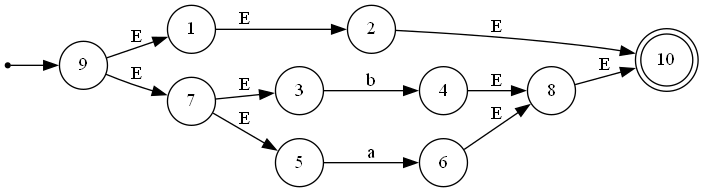
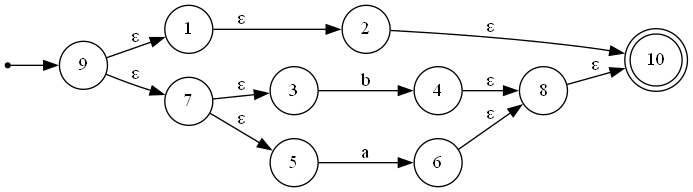
implementacion de ε

diff --git a/AFN.py b/AFN.py
@@ -11,7 +11,6 @@ class AFN(AF):
 
     def __Thompson(self):
         postfix = self.Regex.get_postfix()
-        print(postfix)
         # Stack made of postfix elements
         for element in postfix:
             self.stack.append(element)
@@ -24,7 +23,7 @@ class AFN(AF):
     def __crear_AFN(self):
         if len(self.stack) != 0:
             first = self.stack.pop()
-            if first in self.alfabeto or first == 'E':
+            if first in self.alfabeto or first == 'ε':
                 # Se crea un elemento unitario si solo se encuentra un elemento del alfabeto.
                 return self.__unidad(first)
             if self.__is_binary(first):
@@ -51,11 +50,11 @@ class AFN(AF):
         self.estados.add(initial)
         
         # Se crea la transición al estado inicial del diagrama de transición del argumento.
-        transition = (op1[0], 'E')
+        transition = (op1[0], 'ε')
         self.transiciones[initial] = [(transition)]
 
         # Se crea una transición del estado final del argumento a su estado inicial.
-        transition = (op1[0], 'E')
+        transition = (op1[0], 'ε')
         self.transiciones[op1[1]].append(transition)
         
         # Se crea el estado final del barco.
@@ -65,11 +64,11 @@ class AFN(AF):
         self.transiciones[final] = []
 
         # Se añade una transición del estado inicial al final con epsilon.
-        transition = (final, 'E')
+        transition = (final, 'ε')
         self.transiciones[initial].append(transition)
 
         # Se crea una transición del estado final del argumento al estado final del barco con epsilon.
-        transition = (final, 'E')
+        transition = (final, 'ε')
         self.transiciones[op1[1]].append(transition)
 
         return (initial, final)
@@ -81,11 +80,11 @@ class AFN(AF):
         self.estados.add(initial)
         
         # Se crea la transición al estado inicial del diagrama de transición del argumento.
-        transition = (op1[0], 'E')
+        transition = (op1[0], 'ε')
         self.transiciones[initial] = [(transition)]
 
         # Se crea una transición del estado final del argumento a su estado inicial.
-        transition = (op1[0], 'E')
+        transition = (op1[0], 'ε')
         self.transiciones[op1[1]].append(transition)
         
         # Se crea el estado final del barco.
@@ -95,7 +94,7 @@ class AFN(AF):
         self.transiciones[final] = []
 
         # Se crea una transición del estado final del argumento al estado final del barco con epsilon.
-        transition = (final, 'E')
+        transition = (final, 'ε')
         self.transiciones[op1[1]].append(transition)
 
         return (initial, final)
@@ -108,9 +107,9 @@ class AFN(AF):
 
         # Se crea una transición para cada una de las dos partes de la hamburguesa
         # Estos son los estados iniciales de los dos operandos del OR.
-        transition = (op1[0], 'E')
+        transition = (op1[0], 'ε')
         self.transiciones[initial] = [(transition)]
-        transition = (op2[0], 'E')
+        transition = (op2[0], 'ε')
         self.transiciones[initial].append(transition)
 
         # Se crea un estado final de la hamburguesa.
@@ -121,11 +120,11 @@ class AFN(AF):
         self.transiciones[final] = []
 
         # Se crea una transición del estado final de un componente del OR al final de la hamburguesa.
-        transition = (final, 'E')
+        transition = (final, 'ε')
         self.transiciones[op1[1]].append(transition)
 
         # Se crea una transición del estado final del componente restante del OR al final de la hamburguesa.
-        transition = (final, 'E')
+        transition = (final, 'ε')
         self.transiciones[op2[1]].append(transition)
 
         return (initial, final)
@@ -137,7 +136,7 @@ class AFN(AF):
 
         # Se crea una transición entre estos estados con E
         # Tiene la forma: estado_incial_1 - E - > estado_inicial_2
-        transition = (op2[0], 'E')
+        transition = (op2[0], 'ε')
 
         # Se agrega la transición
         self.transiciones[op1[1]].append(transition)
@@ -196,11 +195,11 @@ class AFN(AF):
 
         for key in self.transiciones:
             for elements in self.transiciones[key]:
-                afn.add_edge(pydot.Edge(str(key), str(elements[0]), label=elements[1]))
+                afn.add_edge(pydot.Edge(str(key), str(elements[0]), label=str(elements[1])))
 
 
         # Se guarda el grafo en un archivo PNG
-        afn.write_png('afn.png')
+        afn.write_png('afn.png', encoding="utf8")
 
     def __str__(self):
     

diff --git a/AF.py b/AF.py
@@ -39,17 +39,3 @@ class AF(object):
                     result.add(element[0])
                     
         return result
-
-    def write_to_file(self):
-        res = f'---------------- {self.name} ----------------\n'
-        res += 'Estado inicial: ' + str(self.inicio) + '\n'
-        res += 'Estados de aceptación: ' + str(self.aceptacion) + '\n'
-        res += 'Estados: ' + str(self.estados) + '\n'
-        res += 'Simbolos: ' + str(self.alfabeto) + '\n'
-        res += 'Transiciones:\n'
-        for key in self.transiciones:
-            for elements in self.transiciones[key]:
-                res += str(key) + ' - (' + str(elements[1]) + ') - > ' + str(elements[0]) + '\n'
-        with open(f'./Resultados/{self.name}.txt', "w", encoding="utf-8") as f:
-            f.write(res)
-        

diff --git a/Regex.py b/Regex.py
@@ -10,7 +10,7 @@ class Regex(object):
         # Obtener elementos que no son operadores
         # ni parentesis
         for element in self.expresion:
-            if not (element in '()*| E + ? ^'):
+            if not (element in '()*| ε + ? ^'):
                 self.Alfabeto.add(element)
     
     def get_alfabeto(self):
@@ -80,8 +80,6 @@ class Regex(object):
 
     def get_postfix(self):
 
-        self.expresion = self.expresion.replace('?', '|E')
-
         res = ""
         operadores = ['|', '?', '+', '*', '^']
         binarios = ['^', '|']
@@ -124,4 +122,7 @@ class Regex(object):
 
         while stack.size() > 0:
             postfix += stack.pop()
+
+        postfix = postfix.replace('?', 'ε|')
+
         return postfix
